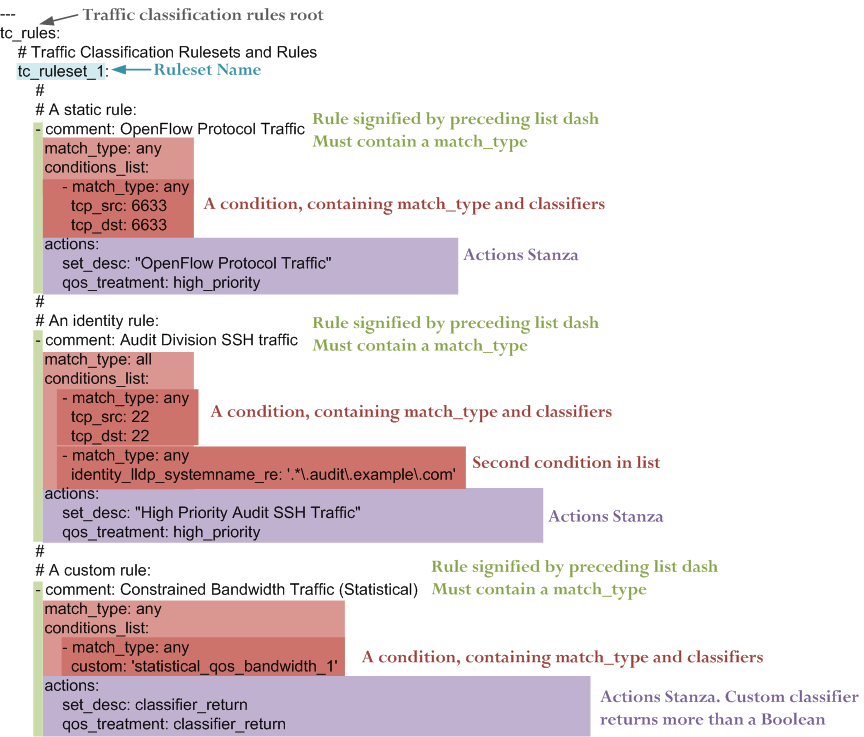
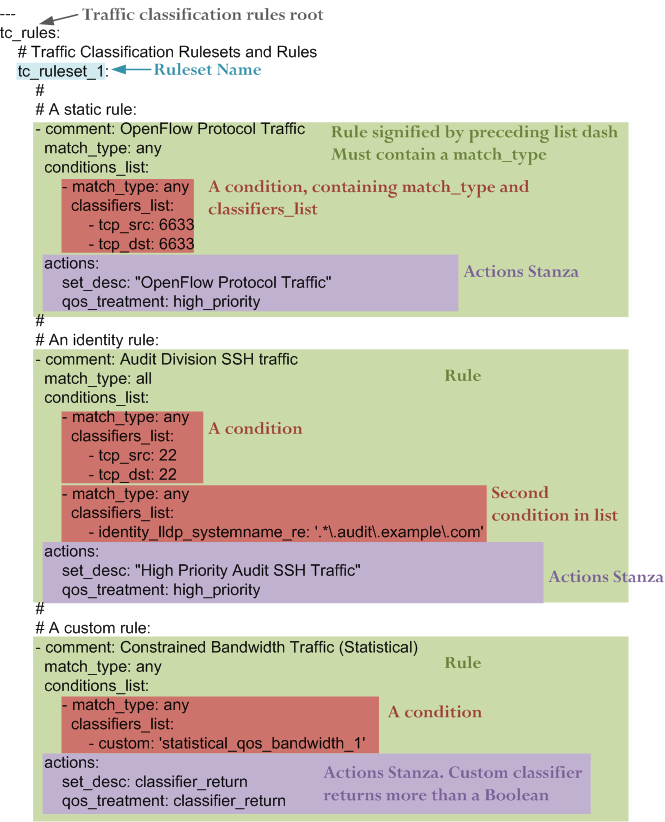
Updated policy for tc classifiers to use a list (classifiers_list) so that order of classifier processing is deterministic and multiple instances of same classifier can be used in same condition (if required). Policy doc updated to match.

diff --git a/tests/test_policy.py b/tests/test_policy.py
@@ -36,27 +36,34 @@ INPORT1 = 1
 INPORT2 = 2
 
 #*** Test condition instances (sets of classifiers):
-condition_any_opf = {'match_type': 'any',
-                             'tcp_src': 6633, 'tcp_dst': 6633}
-condition_all_opf = {'match_type': 'all',
-                             'tcp_src': 6633, 'tcp_dst': 6633}
-condition_none_opf = {'match_type': 'none',
-                             'tcp_src': 6633, 'tcp_dst': 6633}
-condition_any_http = {'match_type': 'any',
-                             'tcp_src': 80, 'tcp_dst': 80}
-condition_all_http = {'match_type': 'all',
-                             'tcp_src': 80, 'tcp_dst': 80}
-condition_all_http2 = {'match_type': 'all',
-                             'tcp_src': 43297, 'tcp_dst': 80}
-condition_any_mac = {'match_type': 'any', 'eth_src': '08:00:27:2a:d6:dd',
-                         'eth_dst': '08:00:27:c8:db:91'}
-condition_all_mac = {'match_type': 'all', 'eth_src': '08:00:27:2a:d6:dd',
-                         'eth_dst': '08:00:27:c8:db:91'}
-condition_any_mac2 = {'match_type': 'any', 'eth_src': '00:00:00:01:02:03',
-                         'eth_dst': '08:00:27:01:02:03'}
-condition_any_ip = {'match_type': 'any', 'ip_dst': '192.168.57.12',
-                         'ip_src': '192.168.56.32'}
-condition_any_ssh = {'match_type': 'any', 'tcp_src': 22, 'tcp_dst': 22}
+condition_any_opf = {'match_type': 'any', 'classifiers_list':
+                             [{'tcp_src': 6633}, {'tcp_dst': 6633}]}
+condition_all_opf = {'match_type': 'all', 'classifiers_list':
+                             [{'tcp_src': 6633}, {'tcp_dst': 6633}]}
+condition_none_opf = {'match_type': 'none', 'classifiers_list':
+                             [{'tcp_src': 6633}, {'tcp_dst': 6633}]}
+condition_any_http = {'match_type': 'any', 'classifiers_list':
+                             [{'tcp_src': 80}, {'tcp_dst': 80}]}
+condition_all_http = {'match_type': 'all', 'classifiers_list':
+                             [{'tcp_src': 80}, {'tcp_dst': 80}]}
+condition_all_http2 = {'match_type': 'all', 'classifiers_list':
+                             [{'tcp_src': 43297}, {'tcp_dst': 80}]}
+condition_any_mac = {'match_type': 'any', 'classifiers_list':
+                             [{'eth_src': '08:00:27:2a:d6:dd'},
+                              {'eth_dst': '08:00:27:c8:db:91'}]}
+condition_all_mac = {'match_type': 'all', 'classifiers_list':
+                             [{'eth_src': '08:00:27:2a:d6:dd'},
+                              {'eth_dst': '08:00:27:c8:db:91'}]}
+condition_any_mac2 = {'match_type': 'any', 'classifiers_list':
+                             [{'eth_src': '00:00:00:01:02:03'},
+                              {'eth_dst': '08:00:27:01:02:03'}]}
+condition_any_ip = {'match_type': 'any', 'classifiers_list':
+                             [{'ip_dst': '192.168.57.12'},
+                              {'ip_src': '192.168.56.32'}]}
+condition_any_ssh = {'match_type': 'any', 'classifiers_list':
+                             [{'tcp_src': 22}, {'tcp_dst': 22}]}
+
+condition_bad_no_list = {'match_type': 'any'}
 
 rule_1 = {
             'comment': 'HTTP traffic',
@@ -64,13 +71,15 @@ rule_1 = {
                 [
                     {
                     'match_type': 'any',
-                    'tcp_src': 80,
-                    'tcp_dst': 80
+                    'classifiers_list':
+                        [{'tcp_src': 80},
+                         {'tcp_dst': 80}]
                 },
                     {
                     'match_type': 'any',
-                    'ip_src': '10.1.0.1',
-                    'ip_dst': '10.1.0.1'
+                    'classifiers_list':
+                        [{'ip_src': '10.1.0.1'},
+                         {'ip_dst': '10.1.0.1'}]
                 }
             ],
             'match_type': 'all',
@@ -78,50 +87,6 @@ rule_1 = {
                 {
                 'qos_treatment': 'QoS_treatment=high_priority',
                 'set_desc': 'description="High Priority HTTP Traffic"'
-            }
-        }
-
-rule_2 = {
-            'comment': 'Audit Division SSH traffic',
-            'conditions_list':
-                [
-                    {
-                    'match_type': 'any',
-                    'tcp_src': 22,
-                    'tcp_dst': 22
-                },
-                    {
-                    'match_type': 'any',
-                    'ip_src': '192.168.2.3'
-                }
-            ],
-            'match_type': 'all',
-            'actions':
-                {
-                'qos_treatment': 'QoS_treatment=high_priority',
-                'set_desc': 'description="High Priority Audit Division SSHd Traffic"'
-            }
-        }
-
-#*** Same as 2a, but has 'set_desc' action removed:
-rule_2b = {
-            'comment': 'Audit Division SSH traffic',
-            'conditions_list':
-                [
-                    {
-                    'match_type': 'any',
-                    'tcp_src': 22,
-                    'tcp_dst': 22
-                },
-                    {
-                    'match_type': 'any',
-                    'ip_src': '192.168.2.3'
-                }
-            ],
-            'match_type': 'all',
-            'actions':
-                {
-                'qos_treatment': 'QoS_treatment=high_priority',
             }
         }
 
@@ -473,6 +438,9 @@ def test_validate():
     with pytest.raises(SystemExit) as exit_info:
         policy_module.validate(logger, tc_rule_actions, policy_module.TC_ACTIONS_SCHEMA, 'tc_rule_actions')
 
+    #*** Bad classifier:
+    with pytest.raises(SystemExit) as exit_info:
+        policy_module.validate(logger, condition_bad_no_list, policy_module.TC_CONDITION_SCHEMA, 'tc_condition_bad_no_list')
 
     #=================== Locations branch
 

diff --git a/nmeta/policy.py b/nmeta/policy.py
@@ -259,6 +259,11 @@ TC_RULE_SCHEMA = Schema({
 TC_CONDITION_SCHEMA = Schema({
                         Required('match_type'):
                             Required(Any('any', 'all', 'none')),
+                        Required('classifiers_list'):
+                            [{Extra: object}]
+                        })
+#*** Voluptuous schema for a tc classifier:
+TC_CLASSIFIER_SCHEMA = Schema({
                         Optional('eth_src'): validate_macaddress,
                         Optional('eth_dst'): validate_macaddress,
                         Optional('ip_src'): validate_ip_space,
@@ -594,7 +599,7 @@ class TCCondition(object):
     """
     An object that represents a single traffic classification
     (TC) rule condition from a conditions list
-    (contains a match type and one or more classifiers)
+    (contains a match type and a list of one or more classifiers)
     """
     def __init__(self, tc_rules, policy, policy_snippet):
         """
@@ -605,21 +610,24 @@ class TCCondition(object):
         self.policy = policy
         self.logger = policy.logger
         self.yaml = policy_snippet
+        self.classifiers = []
 
-        #*** Check the correctness of the tc rule:
+        #*** Check the correctness of the tc condition:
         validate(self.logger, self.yaml, TC_CONDITION_SCHEMA,
                                                'tc_rule_condition')
 
-        #*** Accumulate deduplicated custom classifier names:
-        if 'custom' in self.yaml:
-            custlist = tc_rules.custom_classifiers
-            if self.yaml['custom'] not in custlist:
-                custlist.append(self.yaml['custom'])
+        for classifier in self.yaml['classifiers_list']:
+            #*** Validate classifier:
+            validate(self.logger, classifier, TC_CLASSIFIER_SCHEMA,
+                                                               'tc_classifier')
+            self.classifiers.append(classifier)
+            #*** Accumulate deduplicated custom classifier names:
+            if 'custom' in classifier:
+                custlist = tc_rules.custom_classifiers
+                if classifier['custom'] not in custlist:
+                    custlist.append(classifier['custom'])
 
         self.match_type = self.yaml['match_type']
-        #*** Build a dictionary of classifiers (match conditions):
-        self.classifiers = copy.deepcopy(self.yaml)
-        del self.classifiers['match_type']
 
     def check_tc_condition(self, flow, ident):
         """
@@ -630,8 +638,11 @@ class TCCondition(object):
         """
         pkt = flow.packet
         result = TCConditionResult()
+        self.logger.debug("self.classifiers=%s", self.classifiers)
         #*** Iterate through classifiers (example: tcp_src: 123):
-        for policy_attr, policy_value in self.classifiers.iteritems():
+        for classifier in self.classifiers:
+            policy_attr = next(iter(classifier))
+            policy_value = classifier[policy_attr]
             #*** Instantiate data structure for classifier result:
             classifier_result = TCClassifierResult(policy_attr, policy_value)
             self.logger.debug("Iterating classifiers, policy_attr=%s "

diff --git a/docs/source/policyguide.rst b/docs/source/policyguide.rst
@@ -72,8 +72,8 @@ Rules are an ordered list (denoted by preceding dash). Each rule contains:
 
   Conditions List
     A list that contains one or more
-    *condition* stanzas that each contain a match type and one or more
-    classifiers.
+    *condition* stanzas that each contain a match type and a
+    classifiers_list containing one or more classifiers.
 
   Actions
     A single *actions* stanza that contains one or more actions
@@ -94,7 +94,7 @@ A condition contains:
     **none**
       Match only if none of the classifiers in the condition match.
 
-- One or more *classifiers* (see further below)
+- A classifiers_list containing one or more *classifiers* (see further below)
 
 An *actions* stanza contains one or more attribute/value pairs
 
